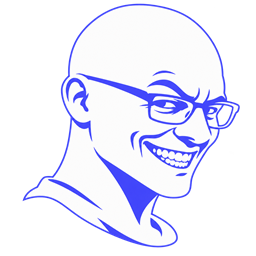
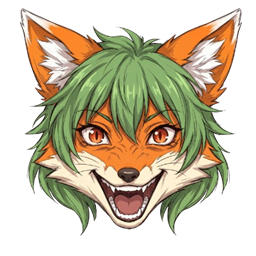
icone da raposa, paleta laranja, fundo modo powerpoint e nyan cat com rastro neon

diff --git a/css/style.css b/css/style.css
@@ -11,10 +11,11 @@
   --text: #f4f4f7;
   --text-2: rgba(244, 244, 247, 0.6);
   --text-3: rgba(244, 244, 247, 0.35);
-  --accent: #5865f2;
-  --accent-soft: rgba(88, 101, 242, 0.18);
-  --accent-btn: linear-gradient(180deg, #6d78ff 0%, #4753e6 100%);
-  --link: #a5adff;
+  --accent: #f2691e;
+  --accent-soft: rgba(242, 105, 30, 0.18);
+  --accent-btn: linear-gradient(180deg, #ff9440 0%, #e05f12 100%);
+  --btn-text: #2a1404;
+  --link: #ffab70;
   --r-panel: 24px;
   --r-item: 14px;
   --ease: cubic-bezier(0.16, 1, 0.3, 1);
@@ -38,24 +39,158 @@ body {
 
 body.in-app { overflow: hidden; }
 
-/* ---------- fundo: aurora + grao ---------- */
+/* ---------- fundo: modo powerpoint (5 slides, 40s de ciclo, 8s cada) ---------- */
 
-.aurora {
+.ppt {
   position: fixed;
-  inset: -20%;
+  inset: 0;
   z-index: 0;
+  overflow: hidden;
   pointer-events: none;
-  background:
-    radial-gradient(42rem 42rem at 16% 18%, rgba(88, 101, 242, 0.16), transparent 62%),
-    radial-gradient(50rem 46rem at 85% 28%, rgba(135, 125, 255, 0.10), transparent 64%),
-    radial-gradient(56rem 50rem at 50% 102%, rgba(70, 80, 230, 0.11), transparent 60%);
-  will-change: transform;
-  animation: aurora-drift 70s var(--ease) infinite alternate;
 }
 
-@keyframes aurora-drift {
-  from { transform: translate3d(-2%, -1%, 0) scale(1); }
-  to   { transform: translate3d(2%, 2%, 0) scale(1.06); }
+.ppt .slide {
+  position: absolute;
+  inset: -8%;
+  opacity: 0;
+  will-change: transform, opacity;
+}
+
+/* slide 1: por do sol da raposa (transicao: fade) */
+.slide-1 {
+  background:
+    radial-gradient(46rem 42rem at 18% 22%, rgba(242, 105, 30, 0.26), transparent 62%),
+    radial-gradient(50rem 44rem at 82% 84%, rgba(255, 150, 70, 0.14), transparent 64%);
+  animation: ppt-fade 40s linear infinite;
+}
+
+/* slide 2: floresta do cabelo verde (transicao: empurrao) */
+.slide-2 {
+  background:
+    radial-gradient(46rem 42rem at 78% 20%, rgba(120, 190, 80, 0.22), transparent 60%),
+    radial-gradient(44rem 40rem at 22% 86%, rgba(60, 140, 50, 0.16), transparent 64%);
+  animation: ppt-push 40s linear infinite 8s;
+}
+
+/* slide 3: listras diagonais cafonas (transicao: circulo abrindo) */
+.slide-3 {
+  background:
+    repeating-linear-gradient(45deg, rgba(255, 140, 60, 0.09) 0 42px, transparent 42px 108px),
+    radial-gradient(50rem 44rem at 50% 55%, rgba(242, 105, 30, 0.14), transparent 66%);
+  animation: ppt-wipe 40s linear infinite 16s;
+}
+
+/* slide 4: bolinhas (transicao: zoom girando) */
+.slide-4 {
+  background-image:
+    radial-gradient(rgba(120, 190, 80, 0.13) 9px, transparent 10px),
+    radial-gradient(rgba(255, 150, 70, 0.11) 7px, transparent 8px),
+    radial-gradient(38rem 36rem at 50% 50%, rgba(242, 105, 30, 0.10), transparent 65%);
+  background-size: 110px 110px, 74px 74px, auto;
+  background-position: 0 0, 37px 53px, center;
+  animation: ppt-zoom 40s linear infinite 24s;
+}
+
+/* slide 5: arco-iris neon (transicao: subindo) */
+.slide-5 {
+  background:
+    linear-gradient(115deg,
+      rgba(255, 46, 46, 0.16) 0 16%,
+      rgba(255, 154, 0, 0.16) 16% 32%,
+      rgba(255, 230, 0, 0.14) 32% 48%,
+      rgba(46, 255, 94, 0.13) 48% 64%,
+      rgba(0, 179, 255, 0.15) 64% 82%,
+      rgba(138, 77, 255, 0.16) 82% 100%),
+    radial-gradient(44rem 40rem at 50% 50%, rgba(255, 255, 255, 0.05), transparent 70%);
+  animation: ppt-rise 40s linear infinite 32s;
+}
+
+@keyframes ppt-fade {
+  0% { opacity: 0; }
+  3% { opacity: 1; }
+  20% { opacity: 1; }
+  24% { opacity: 0; }
+  100% { opacity: 0; }
+}
+
+@keyframes ppt-push {
+  0% { opacity: 1; transform: translateX(100%); }
+  3% { opacity: 1; transform: none; }
+  20% { opacity: 1; transform: none; }
+  24% { opacity: 0; transform: none; }
+  100% { opacity: 0; transform: none; }
+}
+
+@keyframes ppt-wipe {
+  0% { opacity: 1; clip-path: circle(0% at 50% 50%); }
+  4% { opacity: 1; clip-path: circle(75% at 50% 50%); }
+  20% { opacity: 1; clip-path: circle(75% at 50% 50%); }
+  24% { opacity: 0; clip-path: circle(75% at 50% 50%); }
+  100% { opacity: 0; clip-path: circle(75% at 50% 50%); }
+}
+
+@keyframes ppt-zoom {
+  0% { opacity: 0; transform: scale(0.15) rotate(-10deg); }
+  3.5% { opacity: 1; transform: none; }
+  20% { opacity: 1; transform: none; }
+  24% { opacity: 0; transform: none; }
+  100% { opacity: 0; transform: none; }
+}
+
+@keyframes ppt-rise {
+  0% { opacity: 0; transform: translateY(55%); }
+  3% { opacity: 1; transform: none; }
+  20% { opacity: 1; transform: none; }
+  24% { opacity: 0; transform: none; }
+  100% { opacity: 0; transform: none; }
+}
+
+/* ---------- nyan cat (gato real, rastro neon) ---------- */
+
+.nyan {
+  position: fixed;
+  top: 24vh;
+  left: 0;
+  z-index: 65;
+  pointer-events: none;
+  display: flex;
+  align-items: center;
+  transform: translateX(-60vw);
+  animation: nyan-fly 21s linear infinite 3s;
+  filter: drop-shadow(0 0 16px rgba(255, 105, 200, 0.3));
+}
+
+.nyan::before {
+  content: "";
+  width: 42vw;
+  height: 52px;
+  margin-right: -10px;
+  border-radius: 999px 0 0 999px;
+  opacity: 0.8;
+  background: linear-gradient(180deg,
+    #ff2e2e 0 16.6%,
+    #ff9a00 16.6% 33.3%,
+    #ffe600 33.3% 50%,
+    #2eff5e 50% 66.6%,
+    #00b3ff 66.6% 83.3%,
+    #8a4dff 83.3% 100%);
+}
+
+.nyan img {
+  width: 90px;
+  height: 90px;
+  object-fit: cover;
+  border-radius: 50%;
+  border: 3px solid rgba(255, 255, 255, 0.92);
+  box-shadow: 0 0 22px rgba(255, 255, 255, 0.35);
+}
+
+@keyframes nyan-fly {
+  0%   { transform: translateX(-60vw) translateY(0); }
+  25%  { transform: translateX(-10vw) translateY(-16px); }
+  50%  { transform: translateX(40vw) translateY(12px); }
+  75%  { transform: translateX(90vw) translateY(-14px); }
+  100% { transform: translateX(140vw) translateY(0); }
 }
 
 .grain {
@@ -97,13 +232,13 @@ body.in-app { overflow: hidden; }
   width: 88px;
   height: 88px;
   object-fit: contain;
-  filter: drop-shadow(0 8px 22px rgba(88, 101, 242, 0.45));
+  filter: drop-shadow(0 8px 22px rgba(242, 105, 30, 0.45));
 }
 
 .mark-face-sm {
   width: 34px;
   height: 34px;
-  filter: drop-shadow(0 2px 8px rgba(88, 101, 242, 0.4));
+  filter: drop-shadow(0 2px 8px rgba(242, 105, 30, 0.4));
 }
 
 /* ---------- gatos (setor de RH) ---------- */
@@ -255,9 +390,9 @@ body.in-app { overflow: hidden; }
 
 .input:focus {
   outline: none;
-  border-color: rgba(88, 101, 242, 0.7);
+  border-color: rgba(242, 105, 30, 0.7);
   background: rgba(255, 255, 255, 0.07);
-  box-shadow: 0 0 0 4px rgba(88, 101, 242, 0.2);
+  box-shadow: 0 0 0 4px rgba(242, 105, 30, 0.2);
 }
 
 .field-error {
@@ -285,10 +420,11 @@ body.in-app { overflow: hidden; }
 
 .btn-primary {
   background: var(--accent-btn);
-  color: #fff;
+  color: var(--btn-text);
+  font-weight: 700;
   box-shadow:
-    inset 0 1px 0 rgba(255, 255, 255, 0.28),
-    0 10px 30px rgba(88, 101, 242, 0.3);
+    inset 0 1px 0 rgba(255, 255, 255, 0.35),
+    0 10px 30px rgba(242, 105, 30, 0.3);
 }
 
 .btn-primary:hover { filter: brightness(1.1); transform: translateY(-1px); }
@@ -300,7 +436,7 @@ body.in-app { overflow: hidden; }
 .btn-ghost:focus-visible,
 .composer-cat:focus-visible,
 .composer-send:focus-visible {
-  outline: 2px solid rgba(88, 101, 242, 0.65);
+  outline: 2px solid rgba(242, 105, 30, 0.7);
   outline-offset: 2px;
 }
 
@@ -417,10 +553,10 @@ body.in-app { overflow: hidden; }
   display: grid;
   place-items: center;
   font-size: 38px;
-  color: #9aa4ff;
+  color: #ffb27a;
   background: var(--accent-soft);
-  border: 1px solid rgba(88, 101, 242, 0.35);
-  box-shadow: 0 0 50px rgba(88, 101, 242, 0.25);
+  border: 1px solid rgba(242, 105, 30, 0.35);
+  box-shadow: 0 0 50px rgba(242, 105, 30, 0.25);
   margin-bottom: 14px;
 }
 
@@ -574,8 +710,8 @@ body.in-app { overflow: hidden; }
 }
 
 .composer:focus-within {
-  border-color: rgba(88, 101, 242, 0.6);
-  box-shadow: 0 0 0 4px rgba(88, 101, 242, 0.16);
+  border-color: rgba(242, 105, 30, 0.65);
+  box-shadow: 0 0 0 4px rgba(242, 105, 30, 0.16);
 }
 
 /* depois do :focus-within pra vencer na cascata quando o envio falha */
@@ -612,7 +748,7 @@ body.in-app { overflow: hidden; }
   transition: color 0.25s var(--ease), border-color 0.25s var(--ease), transform 0.2s var(--ease);
 }
 
-.composer-cat:hover { color: var(--link); border-color: rgba(88, 101, 242, 0.5); }
+.composer-cat:hover { color: var(--link); border-color: rgba(242, 105, 30, 0.55); }
 .composer-cat:active { transform: scale(0.92); }
 
 .composer-send {
@@ -622,7 +758,7 @@ body.in-app { overflow: hidden; }
   border: none;
   border-radius: 999px;
   background: var(--accent-btn);
-  color: #fff;
+  color: var(--btn-text);
   font-size: 18px;
   display: grid;
   place-items: center;
@@ -658,7 +794,9 @@ body.in-app { overflow: hidden; }
 /* ---------- movimento reduzido ---------- */
 
 @media (prefers-reduced-motion: reduce) {
-  .aurora { animation: none; }
+  .ppt .slide { animation: none; opacity: 0; }
+  .ppt .slide-1 { opacity: 1; }
+  .nyan { display: none; }
   .gate-card, .app, .msg { animation: none; }
   .sk { animation: none; }
   .cats-rail img { animation: none; }

diff --git a/index.html b/index.html
@@ -7,9 +7,9 @@
   <meta name="description" content="Tipo o Discord, só que pior. Call e chat em tempo real, sem cadastro: digita o nome e entra.">
   <meta property="og:title" content="focsecord">
   <meta property="og:description" content="Tipo o Discord, só que pior. Digita o nome e entra.">
-  <meta property="og:image" content="https://burnnode.github.io/focsebillcord/assets/icone-app.png">
-  <link rel="icon" type="image/png" href="assets/icone-app.png">
-  <link rel="apple-touch-icon" href="assets/icone-app.png">
+  <meta property="og:image" content="https://burnnode.github.io/focsebillcord/assets/icone-app.png?v=2">
+  <link rel="icon" type="image/png" href="assets/icone-app.png?v=2">
+  <link rel="apple-touch-icon" href="assets/icone-app.png?v=2">
   <link rel="preconnect" href="https://fonts.googleapis.com">
   <link rel="preconnect" href="https://fonts.gstatic.com" crossorigin>
   <link href="https://fonts.googleapis.com/css2?family=Comic+Neue:wght@400;700&display=swap" rel="stylesheet">
@@ -18,8 +18,20 @@
 </head>
 <body>
 
-  <div class="aurora" aria-hidden="true"></div>
+  <!-- fundo modo powerpoint: slides trocando com transicao cafona -->
+  <div class="ppt" aria-hidden="true">
+    <div class="slide slide-1"></div>
+    <div class="slide slide-2"></div>
+    <div class="slide slide-3"></div>
+    <div class="slide slide-4"></div>
+    <div class="slide slide-5"></div>
+  </div>
   <div class="grain" aria-hidden="true"></div>
+
+  <!-- nyan cat de verdade -->
+  <div class="nyan" aria-hidden="true">
+    <img src="https://cataas.com/cat/gif?width=120&r=6" alt="" onerror="this.parentElement.style.display='none'">
+  </div>
 
   <!-- funcionarios do mes -->
   <div class="cats-rail cats-left" aria-hidden="true">
